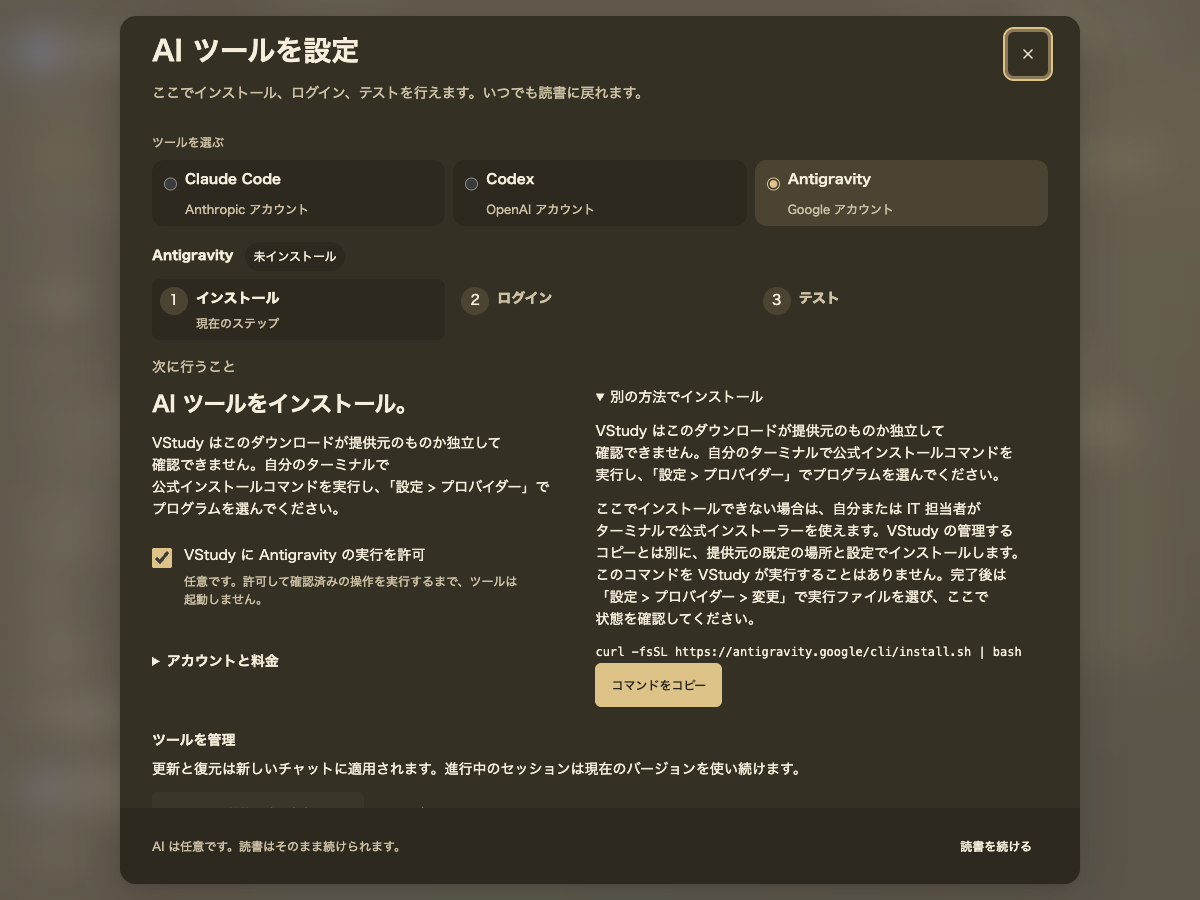
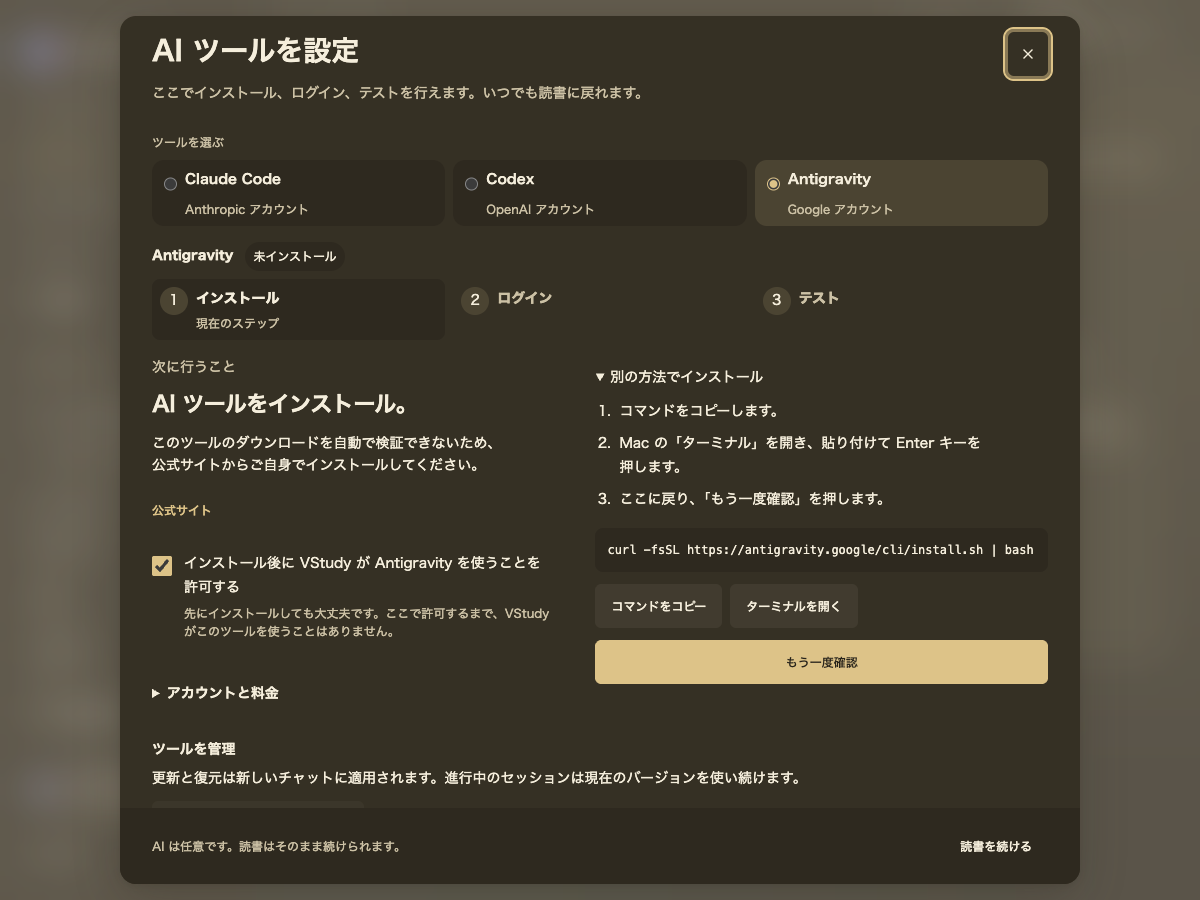
docs(ai-cli): record polished manual setup acceptance
Capture all six language and scheme variants from the actual packaged app.
Record the single explanation, numbered steps, visible controls and detection check.
Keep screenshot hashes, the ASAR hash and the packaged PTY result for review.

diff --git a/docs/evidence/ai-cli/packaged/manual-install-review.md b/docs/evidence/ai-cli/packaged/manual-install-review.md
@@ -1,8 +1,8 @@
 # Packaged manual-install review
 
-One packaged app ran from main `9434d667` on branch `t3/ai-cli-windows-tests`. It passed the native PTY smoke and captured the real Antigravity manual-install sheet in English, Traditional Chinese, and Japanese, in Paper light and dark. Capture code is `27c18a1`.
+Students need clear steps when automatic download verification is unavailable. Branch `t3/ai-cli-copy` starts from main `b402c424`. Implementation and capture code are in `0f78688`. One packaged app passed the native PTY smoke and captured the real Antigravity manual-install sheet in English, Traditional Chinese, and Japanese, in Paper light and dark.
 
-The app used an isolated home and user-data directory. Real file-only discovery reported Antigravity missing. No renderer state or CLI inventory was mocked. Settings and setup used the existing IPC. The managed installer was unavailable under the publisher policy, and the sheet showed the official copy-only command.
+The app used an isolated home and user-data directory. Real file-only discovery reported Antigravity missing. No renderer state or CLI inventory was mocked. Settings and setup used the existing IPC. The publisher policy required manual installation. The sheet showed one short explanation, a confirmed official-source link, three numbered steps, and the exact official command. Copy command and Open Terminal are secondary buttons. Check again is the only primary button. The permission label describes using the tool after installation.
 
 ## Screenshots inspected
 
@@ -10,13 +10,13 @@ Every PNG below was opened and visually reviewed at 1200 by 900 pixels.
 
 | Language | Light | Dark | Review |
 | --- | --- | --- | --- |
-| English | [PNG](manual-install-en-light.png) | [PNG](manual-install-en-dark.png) | Pass. The current Install step, explanation, full command, and primary Copy button are visible. |
-| Traditional Chinese | [PNG](manual-install-zh-Hant-light.png) | [PNG](manual-install-zh-Hant-dark.png) | Pass. Traditional characters and labels render correctly. The command and primary action remain visible. |
-| Japanese | [PNG](manual-install-ja-light.png) | [PNG](manual-install-ja-dark.png) | Pass. The longer instructions wrap within the column. The complete command and Copy button fit above the footer. |
+| English | [PNG](manual-install-en-light.png) | [PNG](manual-install-en-dark.png) | Pass. One explanation, the official-source link, three numbered steps, full command, and all three buttons are visible. |
+| Traditional Chinese | [PNG](manual-install-zh-Hant-light.png) | [PNG](manual-install-zh-Hant-dark.png) | Pass. Traditional characters and labels render correctly. The instructions and all three buttons fit above the footer. |
+| Japanese | [PNG](manual-install-ja-light.png) | [PNG](manual-install-ja-dark.png) | Pass. Instructions and permission text wrap within their columns. The full command and all three buttons fit above the footer. |
 
-The two-column Quiet folio layout stays aligned in both schemes. No horizontal clipping, overlapping controls, untranslated namespace keys, or missing glyphs were observed. Optional management and help content continues in the scroll area. The primary install action remains visible in all six screenshots.
+The two-column Quiet folio layout stays aligned in both schemes. No horizontal clipping, overlapping controls, untranslated namespace keys, or missing glyphs were observed. Optional management and help content continues in the scroll area. The primary Check again button remains visible in all six screenshots.
 
-The runtime assertions independently checked the localized current step, exact official command, enabled and visible Copy button, one action button in the manual pane, no managed Run preview, and no horizontal overflow. The screenshots cover manual installation on macOS, not native Windows behavior or a new-account login.
+Runtime assertions checked the localized current step, exact official command, single explanation, three numbered steps, visible source link, three enabled visible buttons, one primary Check again button, no embedded Run preview, and no horizontal overflow. After each capture, the script pressed Check again and waited for the localized missing-tool result. The real inventory remained missing, without a version probe or test. The screenshots cover manual installation on macOS, not native Windows behavior or a new-account login.
 
 ## Native PTY and cleanup
 
@@ -24,10 +24,14 @@ Both packaged helper candidates started at mode `0644`. The runtime repaired the
 
 The ad-hoc package passed deep strict signature verification. RunAsNode and inspector arguments remained disabled, and ASAR-only loading and integrity validation remained enabled. The app exited with code 0. `pgrep -fl "VStudy Pro|Electron"` returned no processes before and after the single launch. The shared GUI slot release was announced immediately after exit.
 
-[The runtime result](result.json) records the helper, fuse, and six DOM checks. [The review record](manual-install-checks.json) records screenshot hashes, dimensions, visual inspection, and command results. Typecheck, scoped lint, build, native packaging, Knip, and static security checks passed. The relevant setup component and helper tests passed all 44 tests. No full suite was repeated for this capture-only change.
+[The runtime result](result.json) records the helper, fuse, and six DOM checks. [The review record](manual-install-checks.json) records screenshot hashes, dimensions, visual inspection, ASAR hash, and command results. Typecheck, lint, build, native packaging, Knip, vendor checks, and static security checks passed. Static security retained three existing external-link warnings. The full desktop suite passed 1,466 tests, with 15 skipped. A final renderer run passed all 44 tests after the other-Unix wording and Codex platform regression were added.
 
-## Windows fixture work already merged
+## Provider and terminal coverage
 
-The Windows fixture changes are already in `e707d93`, with the full file list and CI handoff in `38e254b`. Main merged them as `9434d667`, before this branch was created. No duplicate fixture patch was made. [The ten changed files, platform gates, ConPTY assertion, and P's rerun command](../../../AI_CLI_WINDOWS_FIXTURES.md) remain the handoff. Native Windows confirmation is still P-owned.
+Component tests exercise the shared manual path for Claude, Codex, and Antigravity in all three languages. They check the single explanation, numbered steps, command copying, official-source link, permission label, and external-terminal capability. Windows wording and PowerShell commands are covered for Claude and Antigravity. Codex stays macOS-only.
 
-Prove It Works required the real packaged process and inspection of every PNG. Model the Domain kept each capture's language, scheme, action state, and evidence in one record.
+Main-process tests verify native confirmation, cancellation without clipboard or launch changes, fixed terminal argv, no installer command in process argv, document reload rejection, and rejection of every manual terminal capability by the embedded runner. These tests mock terminal process creation. The packaged run exercises the real PTY and file-only Check again, without opening the user's terminal or executing a vendor installer.
+
+Native Windows acceptance remains P-owned. The earlier fixture fixes and their [CI handoff](../../../AI_CLI_WINDOWS_FIXTURES.md) were already merged before this branch.
+
+Model the Domain kept manual terminal capabilities separate from embedded actions. Test Behavior required the observable copy, consent, cancellation, and detection checks. Prove It Works required the packaged process and inspection of every PNG. All work ran in-thread as the implementation delegate. Independent review and the PR gate remain coordinator-owned.

diff --git a/docs/AI_CLI_SETUP_REPORT.md b/docs/AI_CLI_SETUP_REPORT.md
@@ -142,6 +142,12 @@ Follow-up implementation commits are `26dc649` for the terminal parser, `f3427b8
 
 Independent cross-family review and any PR gate remain coordinator-owned. Passing tests and implementation self-review are not an independent verdict. This report does not mark the branch as independently reviewed or ready to ship.
 
+## Manual-install copy follow-up
+
+Branch `t3/ai-cli-copy` starts from main `b402c424`. Commit `0f78688` replaces the repeated explanation with one short sentence and an official-source link. All three providers share numbered copy-and-paste instructions, a confirmed Open Terminal action, a primary file-only Check again button, and clearer permission labels. English, Traditional Chinese, and Japanese use the same flow. The manual terminal capability copies a fixed command and opens a blank terminal. It cannot run an installer in the embedded runner or enable a provider.
+
+The full desktop suite passed 1,466 tests, with 15 skipped. The final renderer follow-up passed 44 tests. Typecheck, lint, Knip, vendor checks, and static security checks passed. One packaged macOS app passed the real PTY smoke and exercised Check again in every language and scheme. All six screenshots were opened and visually reviewed. The app closed immediately afterward, the Electron inventory was empty, and the GUI slot was released. [The capture review, screenshots, hashes, and exact acceptance scope](evidence/ai-cli/packaged/manual-install-review.md) record the evidence.
+
 ## Delivery and dispatch record
 
 Blocking work established the official commands, executable trust rules, managed directory policy, and strict IPC shapes before delegation. Backend and renderer then worked in separate worktrees from the committed contract. Shared IPC edits and integration serialized in this checkout. Verification used bounded workers and one Electron app. The folio and capability design survived runtime verification, so no replacement implementation was needed.
